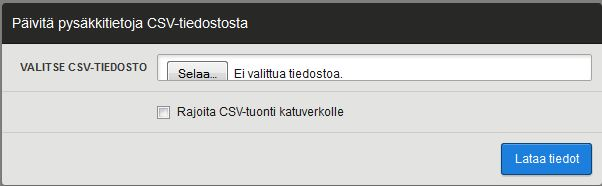
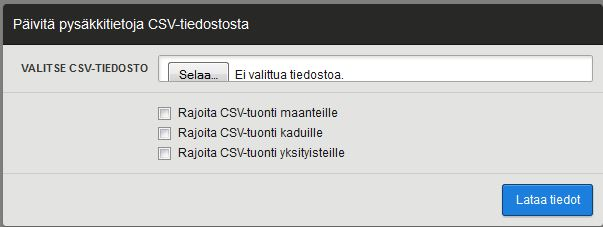
add road type limits on CSV to operator manual

diff --git a/UI/manual/operaattorimanuaali.md b/UI/manual/operaattorimanuaali.md
@@ -27,7 +27,7 @@ Importeilla vied&auml;&auml;n aineistoja j&auml;rjestelm&auml;&auml;n.
 2.1 CSV-vienti
 --------------
 
-Joukkoliikenteen pys&auml;kkien suomenkielist&auml; nime&auml;, yll&auml;pit&auml;j&auml;n tunnusta, LiVi-tunnusta, matkustajatunnusta ja tyyppi&auml; voi p&auml;ivitt&auml;&auml; viem&auml;ll&auml; .csv-tiedoston [k&auml;ytt&ouml;liittym&auml;n](https://testiextranet.liikennevirasto.fi/digiroad/excel_import.html ) kautta j&auml;rjestelm&auml;&auml;n. Pelk&auml;st&auml;&auml;n katuverkon pys&auml;kkej&auml; voi p&auml;ivitt&auml;&auml; klikkaamalla k&auml;ytt&ouml;liittym&auml;st&auml; "Rajoita CSV-tuonti katuverkolle"-kohdan valituksi.
+Joukkoliikenteen pys&auml;kkien suomenkielist&auml; nime&auml;, yll&auml;pit&auml;j&auml;n tunnusta, LiVi-tunnusta, matkustajatunnusta ja tyyppi&auml; voi p&auml;ivitt&auml;&auml; viem&auml;ll&auml; .csv-tiedoston [k&auml;ytt&ouml;liittym&auml;n](https://testiextranet.liikennevirasto.fi/digiroad/excel_import.html ) kautta j&auml;rjestelm&auml;&auml;n. Oletusarvoisesti j&auml;rjestelm&auml; p&auml;ivitt&auml;&auml; kaikilla v&auml;yl&auml;tyypeill&auml; olevia pys&auml;kkej&auml;. P&auml;ivitett&auml;vi&auml; pys&auml;kkej&auml; voi rajata my&ouml;s sen mukaan, mill&auml; v&auml;yl&auml;tyypill&auml; ne sijaitsevat. Rajoitus tehd&auml;&auml;n valitsemalla k&auml;ytt&ouml;liittym&auml;st&auml; halutut v&auml;yl&auml;tyypit.
 
 ![CSV-vienti](k23.JPG)
 
